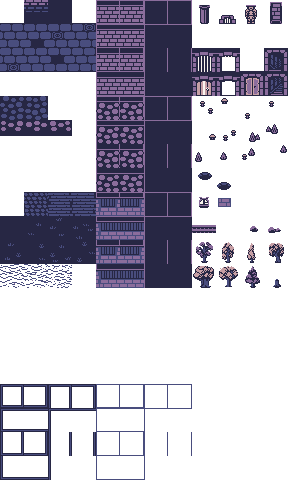
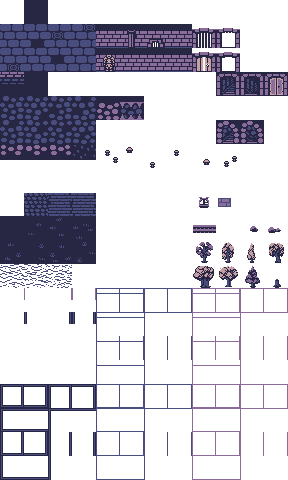
tiles, minor fixes

diff --git a/core/src/main/com/ovle/rll3/view/layer/level/dungeon.kt b/core/src/main/com/ovle/rll3/view/layer/level/dungeon.kt
@@ -5,17 +5,15 @@ import com.ovle.rll3.model.ecs.component.DoorComponent
 import com.ovle.rll3.model.ecs.component.LevelConnectionComponent
 import com.ovle.rll3.model.ecs.component.LevelConnectionComponent.LevelConnectionType
 import com.ovle.rll3.model.ecs.component.Mappers.levelConnection
-import com.ovle.rll3.model.ecs.component.TriggerComponent
 import com.ovle.rll3.model.ecs.component.has
 import com.ovle.rll3.model.ecs.entity.entitiesOnPosition
 import com.ovle.rll3.model.ecs.entity.hasEntityOnPosition
-import com.ovle.rll3.model.procedural.grid.corridorFloorTypes
-import com.ovle.rll3.model.procedural.grid.roomFloorTypes
+import com.ovle.rll3.model.procedural.grid.floorTypes
 import com.ovle.rll3.model.tile.*
 import com.ovle.rll3.point
 import com.ovle.rll3.view.defaultAnimationInterval
-import com.ovle.rll3.view.layer.dungeonWallTileSet
 import com.ovle.rll3.view.layer.indoorFloorBorderTileSet
+import com.ovle.rll3.view.layer.lightWallBorderTileSet
 import com.ovle.rll3.view.noLightning
 import ktx.ashley.get
 
@@ -28,24 +26,24 @@ fun dungeonTileToTexture(params: TileToTextureParams): TileTextureInfo {
 
     val entities = entitiesOnPosition(levelInfo, position)
     fun hasDoor(x: Int, y: Int): Boolean = hasEntityOnPosition(levelInfo, point(x, y), DoorComponent::class)
-    fun hasTrap(x: Int, y: Int): Boolean = hasEntityOnPosition(levelInfo, point(x, y), TriggerComponent::class)
     fun hasLevelConnection(x: Int, y: Int): Boolean = hasEntityOnPosition(levelInfo, point(x, y), LevelConnectionComponent::class)
     fun hasWall(tileId: Int?, x: Int, y: Int) = if (tileId == null || (tileId == wallTileId || hasDoor(x, y))) 1 else 0
     fun hasWallOrPit(tileId: Int?, x: Int, y: Int) = if (tileId == null || (tileId == wallTileId || tileId == pitFloorTileId || hasDoor(x, y))) 1 else 0
-    fun hasRoomWall(tileId: Int?): Int = if (tileId != null && tileId != roomFloorTileId) 1 else 0
+    fun hasPit(tileId: Int?) = if (tileId == pitFloorTileId) 1 else 0
 
     val upTileId = nearTiles.upValue?.typeId
     val downTileId = nearTiles.downValue?.typeId
     val rightTileId = nearTiles.rightValue?.typeId
     val leftTileId = nearTiles.leftValue?.typeId
 
-    val wallTileIndex = nearTiles.run {
+    val wallBorderTileIndex = nearTiles.run {
         hasWall(rightTileId, x + 1, y) + 2 * hasWall(downTileId, x, y + 1) + 4 * hasWall(leftTileId, x - 1, y) + 8 * hasWall(upTileId, x, y - 1)
     }
     val tilesInSet = indoorFloorBorderTileSet.size * indoorFloorBorderTileSet.size - 1
     val floorBorderTileIndex = tilesInSet - nearTiles.run {
         hasWallOrPit(rightTileId, x + 1, y) + 2 * hasWallOrPit(downTileId, x, y + 1) + 4 * hasWallOrPit(leftTileId, x - 1, y) + 8 * hasWallOrPit(upTileId, x, y - 1)
     }
+    val pitFloorBorderTileIndex = 0 + 1 * (hasPit(nearTiles.leftDownValue?.typeId)) + 2 * hasPit(nearTiles.rightDownValue?.typeId)
 
     val tileId = nearTiles.value?.typeId
     val isWall = tileId == wallTileId
@@ -53,20 +51,15 @@ fun dungeonTileToTexture(params: TileToTextureParams): TileTextureInfo {
     val isPitFloor = tileId == pitFloorTileId
     val isCorridorFloor = tileId == corridorFloorTileId
     val isDoor = hasDoor(nearTiles.x, nearTiles.y)
-    val isNextToDoor = hasDoor(nearTiles.x, nearTiles.y - 1)
-    val isRoomWall = upTileId in roomFloorTypes
-    val isCorridorWall = upTileId in corridorFloorTypes
-    val isDoorUp = hasDoor(nearTiles.x, nearTiles.y - 1)
     val isRoomFloorUp = downTileId == roomFloorTileId
     val isPitFloorUp = downTileId == pitFloorTileId
-    val isRoomFloorNearVertical = roomFloorTileId in nearTiles.nearV.map { it?.typeId }
+    val isNextToDoor = hasDoor(nearTiles.x, nearTiles.y - 1)
+    val isNextToFloor = upTileId in floorTypes && !isNextToDoor
 
-    val isTrap = hasTrap(nearTiles.x, nearTiles.y)
-    val isPortal = false
     val isLevelConnection = hasLevelConnection(nearTiles.x, nearTiles.y)
-    val lightValueType = lightValueType(lightInfo, position, positionDown, isPitFloor, isRoomFloorUp, isWall, isDoorUp)
+    val lightValueType = lightValueType(lightInfo, position, positionDown, isPitFloor, isRoomFloorUp, isWall, isNextToDoor)
 
-    val wallTileSet = dungeonWallTileSet
+    val wallBorderTileSet = lightWallBorderTileSet
     val floorBorderTileSet = indoorFloorBorderTileSet
 
     val emptyTile = arrayOf<TextureRegion>()
@@ -82,38 +75,33 @@ fun dungeonTileToTexture(params: TileToTextureParams): TileTextureInfo {
     var animationInterval = defaultAnimationInterval
     val tileRegions = when (layerType) {
         LayerType.Walls -> when {
-            isWall -> arrayOf(indexedTextureTile(wallTileSet, wallTileIndex, regions))
+            isWall || isDoor -> arrayOf(indexedTextureTile(wallBorderTileSet, wallBorderTileIndex, regions))
             isRoomFloor || isCorridorFloor -> arrayOf(indexedTextureTile(floorBorderTileSet, floorBorderTileIndex, regions))
+            isPitFloor -> if (isPitFloorUp) emptyTile else arrayOf(regions[13][pitFloorBorderTileIndex])
             else -> emptyTile
         }
         LayerType.Floor -> when {
-            isPitFloor -> arrayOf(regions[0][if (isPitFloorUp) 2 else 1])
+            isWall && isNextToFloor -> arrayOf(regions[(1..2).random()][(4..7).random()])
+                .withChance(0.6f, defaultValue = arrayOf(regions[1][4]))
+            isDoor -> emptyTile
+            isPitFloor -> arrayOf(regions[3][if (isPitFloorUp) 1 else 0])
             isRoomFloor || isCorridorFloor -> arrayOf(regions[(1..2).random()][(1..3).random()])
             else -> emptyTile
         }
         LayerType.Decoration -> when {
             isLevelConnection -> {
-                val connectionComponent = entities.find { it.has<LevelConnectionComponent>() }!![levelConnection]!!
+                val connectionComponent = entities.single { it.has<LevelConnectionComponent>() }[levelConnection]!!
                 val type = connectionComponent.type
                 when {
-                    !connectionComponent.visited -> arrayOf(regions[3][10])
-                    type == LevelConnectionType.Up -> arrayOf(regions[3][11])
-                    type == LevelConnectionType.Down -> arrayOf(regions[2][11])
+                    !connectionComponent.visited -> arrayOf(regions[3][11])
+                    type == LevelConnectionType.Up -> arrayOf(regions[3][9])
+                    type == LevelConnectionType.Down -> arrayOf(regions[3][10])
                     else -> throw IllegalStateException("bad connection : type = $type")
                 }
             }
             //todo
-            isDoor -> arrayOf(regions[3][8])
-            else -> when {
-                isWall && !isNextToDoor -> when {
-                    isRoomWall -> arrayOf(regions[(0..1).random()][(8..11).random()])
-                        .withChance(0.6f, defaultValue = emptyTile)
-//                    isCorridorWall -> arrayOf(regions[2][(8..11).random()])
-//                        .withChance(0.6f, defaultValue = emptyTile)
-                    else -> emptyTile
-                }
-                else -> emptyTile
-            }
+            isDoor -> arrayOf(regions[2][8])
+            else -> emptyTile
         }
         else -> emptyTile
     }

diff --git a/core/src/main/com/ovle/rll3/view/layer/level/cave.kt b/core/src/main/com/ovle/rll3/view/layer/level/cave.kt
@@ -1,23 +1,22 @@
 package com.ovle.rll3.view.layer.level
 
 import com.badlogic.gdx.graphics.g2d.TextureRegion
-import com.ovle.rll3.model.ecs.component.DoorComponent
 import com.ovle.rll3.model.ecs.component.LevelConnectionComponent
 import com.ovle.rll3.model.ecs.component.LevelConnectionComponent.LevelConnectionType
 import com.ovle.rll3.model.ecs.component.Mappers.levelConnection
-import com.ovle.rll3.model.ecs.component.TriggerComponent
 import com.ovle.rll3.model.ecs.component.has
 import com.ovle.rll3.model.ecs.entity.entitiesOnPosition
 import com.ovle.rll3.model.ecs.entity.hasEntityOnPosition
+import com.ovle.rll3.model.procedural.grid.floorTypes
 import com.ovle.rll3.model.tile.LightValueType
 import com.ovle.rll3.model.tile.pitFloorTileId
 import com.ovle.rll3.model.tile.roomFloorTileId
 import com.ovle.rll3.model.tile.wallTileId
 import com.ovle.rll3.point
 import com.ovle.rll3.view.defaultAnimationInterval
-import com.ovle.rll3.view.layer.caveWallTileSet
 import com.ovle.rll3.view.layer.indoorFloorBorderTileSet
-import com.ovle.rll3.view.layer.outdoorFloorBorderTileSet
+import com.ovle.rll3.view.layer.lightWallBorderTileSet
+import com.ovle.rll3.view.layer.outdoorDarkFloorBorderTileSet
 import com.ovle.rll3.view.noLightning
 import ktx.ashley.get
 
@@ -33,41 +32,37 @@ fun caveTileToTexture(params: TileToTextureParams): TileTextureInfo {
     val positionDown = point(nearTiles.x, nearTiles.y - 1)
 
     val entities = entitiesOnPosition(levelInfo, position)
-    fun hasDoor(x: Int, y: Int): Boolean = hasEntityOnPosition(levelInfo, point(x, y), DoorComponent::class)
-    fun hasTrap(x: Int, y: Int): Boolean = hasEntityOnPosition(levelInfo, point(x, y), TriggerComponent::class)
     fun hasLevelConnection(x: Int, y: Int): Boolean = hasEntityOnPosition(levelInfo, point(x, y), LevelConnectionComponent::class)
-    fun hasWall(tileId: Int?, x: Int, y: Int) = if (tileId == null || (tileId == wallTileId || hasDoor(x, y))) 1 else 0
-    fun hasPit(tileId: Int?, x: Int, y: Int) = if (tileId == pitFloorTileId) 1 else 0
+    fun hasWall(tileId: Int?) = if (tileId == null || (tileId == wallTileId)) 1 else 0
+    fun hasPit(tileId: Int?) = if (tileId == pitFloorTileId) 1 else 0
 
     val upTileId = nearTiles.upValue?.typeId
     val downTileId = nearTiles.downValue?.typeId
     val rightTileId = nearTiles.rightValue?.typeId
     val leftTileId = nearTiles.leftValue?.typeId
 
-    val wallTileIndex = nearTiles.run {
-        hasWall(rightTileId, x + 1, y) + 2 * hasWall(downTileId, x, y + 1) + 4 * hasWall(leftTileId, x - 1, y) + 8 * hasWall(upTileId, x, y - 1)
+    val wallBorderTileIndex = nearTiles.run {
+        hasWall(rightTileId) + 2 * hasWall(downTileId) + 4 * hasWall(leftTileId) + 8 * hasWall(upTileId)
     }
     val tilesInSet = indoorFloorBorderTileSet.size * indoorFloorBorderTileSet.size - 1
     val floorBorderTileIndex = tilesInSet - nearTiles.run {
-        hasPit(rightTileId, x + 1, y) + 2 * hasPit(downTileId, x, y + 1) + 4 * hasPit(leftTileId, x - 1, y) + 8 * hasPit(upTileId, x, y - 1)
+        hasPit(rightTileId) + 2 * hasPit(downTileId) + 4 * hasPit(leftTileId) + 8 * hasPit(upTileId)
     }
+    val pitFloorBorderTileIndex = 0 + 1 * (hasPit(nearTiles.leftDownValue?.typeId)) + 2 * hasPit(nearTiles.rightDownValue?.typeId)
 
     val tileId = nearTiles.value?.typeId
     val isWall = tileId == wallTileId
+    val isNextToFloor = upTileId in floorTypes
     val isRoomFloor = tileId == roomFloorTileId
     val isPitFloor = tileId == pitFloorTileId
-    val isDoor = hasDoor(nearTiles.x, nearTiles.y)
-    val isDoorUp = hasDoor(nearTiles.x, nearTiles.y - 1)
     val isRoomFloorUp = downTileId == roomFloorTileId
     val isPitFloorUp = downTileId == pitFloorTileId
 
-    val isTrap = hasTrap(nearTiles.x, nearTiles.y)
-    val isPortal = false
     val isLevelConnection = hasLevelConnection(nearTiles.x, nearTiles.y)
-    val lightValueType = lightValueType(lightInfo, position, positionDown, isPitFloor, isRoomFloorUp, isWall, isDoorUp)
+    val lightValueType = lightValueType(lightInfo, position, positionDown, isPitFloor, isRoomFloorUp, isWall, false)
 
-    val wallTileSet = caveWallTileSet
-    val floorBorderTileSet = outdoorFloorBorderTileSet
+    val wallBorderTileSet = lightWallBorderTileSet
+    val floorBorderTileSet = outdoorDarkFloorBorderTileSet
 
     val emptyTile = arrayOf<TextureRegion>()
 
@@ -82,13 +77,15 @@ fun caveTileToTexture(params: TileToTextureParams): TileTextureInfo {
     var animationInterval = defaultAnimationInterval
     val tileRegions =  when (layerType) {
         LayerType.Walls -> when {
-            isWall -> arrayOf(indexedTextureTile(wallTileSet, wallTileIndex, regions))
+            isWall -> arrayOf(indexedTextureTile(wallBorderTileSet, wallBorderTileIndex, regions))
             isRoomFloor -> arrayOf(indexedTextureTile(floorBorderTileSet, floorBorderTileIndex, regions))
+            isPitFloor -> if (isPitFloorUp) emptyTile else arrayOf(regions[12][pitFloorBorderTileIndex])
             else -> emptyTile
         }
         LayerType.Floor -> when {
-            isRoomFloor -> arrayOf(regions[4][(0..1).random()])
-            isPitFloor -> if (isPitFloorUp) emptyTile else arrayOf(regions[5][(0..2).random()])
+            isWall && isNextToFloor -> arrayOf(regions[4][(4..4).random()])
+            isRoomFloor -> arrayOf(regions[(4..5).random()][(0..3).random()])
+            isPitFloor -> if (isPitFloorUp) emptyTile else arrayOf(regions[6][(0..2).random()])
             else -> emptyTile
         }
         LayerType.Decoration -> when {
@@ -96,23 +93,12 @@ fun caveTileToTexture(params: TileToTextureParams): TileTextureInfo {
                 val connectionComponent = entities.find { it.has<LevelConnectionComponent>() }!![levelConnection]!!
                 val type = connectionComponent.type
                 when {
-                    !connectionComponent.visited -> arrayOf(regions[3][10])
-                    type == LevelConnectionType.Up -> arrayOf(regions[3][11])
-                    type == LevelConnectionType.Down -> arrayOf(regions[2][11])
+                    type == LevelConnectionType.Up -> arrayOf(regions[5][9])
+                    type == LevelConnectionType.Down -> arrayOf(regions[5][10])
                     else -> throw IllegalStateException("bad connection : type = $type")
                 }
             }
-            //todo
-            isDoor -> arrayOf(regions[3][8])
-            isPitFloor -> {
-                animationInterval = 0.25f
-                arrayOf(
-                    regions[15][0],
-                    regions[15][1],
-                    regions[15][2]
-                )
-            }
-            isRoomFloor -> arrayOf(regions[(4..7).random()][(8..11).random()])
+            isRoomFloor -> arrayOf(regions[6][(4..9).random()])
                 .withChance(0.3f, defaultValue = emptyTile)
             else -> emptyTile
         }

diff --git a/core/src/main/com/ovle/rll3/model/procedural/grid/factory/CelullarAutomataGridFactory.kt b/core/src/main/com/ovle/rll3/model/procedural/grid/factory/CelullarAutomataGridFactory.kt
@@ -18,7 +18,7 @@ class CelullarAutomataGridFactory: GridFactory {
         factoryParams as CelullarAutomataLevelFactoryParams
 
         val size = factoryParams.size
-        val wallGrid = Grid(size)
+        val result = Grid(size)
 
         val generator = CellularAutomataGenerator.getInstance()
         generator.apply {
@@ -29,46 +29,11 @@ class CelullarAutomataGridFactory: GridFactory {
             setInitiate(false) //will do it manually
         }
 
-        CellularAutomataGenerator.initiate(wallGrid, generator)
-        init(wallGrid, size, wallMarker)
-        generator.generate(wallGrid)
-        connect(wallGrid, emptyTileMarker, wallMarker, factoryParams.connectionStrategy)
+        CellularAutomataGenerator.initiate(result, generator)
+        init(result, size, wallMarker)
+        generator.generate(result)
+        connect(result, emptyTileMarker, wallMarker, factoryParams.connectionStrategy)
 
-        val pitGrid = Grid(size)
-        generator.apply {
-            marker = pitMarker
-            deathLimit = 3
-            birthLimit = 6
-        }
-        CellularAutomataGenerator.initiate(pitGrid, generator)
-        generator.generate(pitGrid)
-
-        return merge(arrayOf(wallGrid), size, MergeType.LastNotEmpty)
-//        return merge(arrayOf(wallGrid, pitGrid), size, MergeType.LastNotEmpty)
-    }
-
-    //todo
-    enum class MergeType {
-        FirstNotEmpty {
-            override fun apply(grids: Array<Grid>, x: Int, y: Int): Float? =
-                grids.map { it.get(x, y) }.find { it != emptyTileMarker }
-        },
-        LastNotEmpty {
-            override fun apply(grids: Array<Grid>, x: Int, y: Int): Float? =
-                grids.map { it.get(x, y) }.findLast { it != emptyTileMarker }
-        };
-
-        abstract fun apply(grids: Array<Grid>, x: Int, y: Int): Float?
-    }
-
-    private fun merge(grids: Array<Grid>, size: Int, mergeType: MergeType): Grid {
-        val result = Grid(size)
-        for (x in (0 until size)) {
-            for (y in (0 until size)) {
-                val value = mergeType.apply(grids, x, y) ?: continue
-                result.set(x, y, value)
-            }
-        }
         return result
     }
 

diff --git a/core/src/main/com/ovle/rll3/model/procedural/grid/room.kt b/core/src/main/com/ovle/rll3/model/procedural/grid/room.kt
@@ -7,9 +7,7 @@ import com.ovle.rll3.model.tile.*
 import java.lang.Math.random
 
 val roomFloorTypes = setOf(roomFloorTileId, pitFloorTileId)
-val corridorFloorTypes = setOf(corridorFloorTileId)
 val floorTypes = setOf(roomFloorTileId, pitFloorTileId, corridorFloorTileId)
-
 
 enum class RoomStructure {
     Nop {
@@ -26,6 +24,7 @@ enum class RoomStructure {
             val isFreeSpaceTile = nearTiles.all.all { it?.typeId in roomFloorTypes }
             if (!isFreeSpaceTile) return
 
+            var resultTileId = pitFloorTileId
             val dirValue = params[PitBridgeDirection]
             if (dirValue != NoDirection) {
                 val haveHBridge = dirValue in setOf(H, HV)
@@ -33,10 +32,10 @@ enum class RoomStructure {
                 val isHBridgeTile = nearTiles.y == room.y + room.height / 2
                 val isVBridgeTile = nearTiles.x == room.x + room.width / 2
                 val isBridgeTile = haveHBridge && isHBridgeTile || haveVBridge && isVBridgeTile
-                if (isBridgeTile) return
+                if (isBridgeTile) resultTileId = roomFloorTileId
             }
 
-            setTile(tiles, nearTiles, pitFloorTileId)
+            setTile(tiles, nearTiles, resultTileId)
         }
     },
 

diff --git a/core/src/main/com/ovle/rll3/model/procedural/grid/utils/merge.kt b/core/src/main/com/ovle/rll3/model/procedural/grid/utils/merge.kt
@@ -1,0 +1,29 @@
+package com.ovle.rll3.model.procedural.grid.utils
+
+import com.github.czyzby.noise4j.map.Grid
+import com.ovle.rll3.model.procedural.grid.factory.CelullarAutomataGridFactory
+
+//todo
+enum class MergeType {
+    FirstNotEmpty {
+        override fun apply(grids: Array<Grid>, x: Int, y: Int): Float? =
+            grids.map { it.get(x, y) }.find { it != CelullarAutomataGridFactory.emptyTileMarker }
+    },
+    LastNotEmpty {
+        override fun apply(grids: Array<Grid>, x: Int, y: Int): Float? =
+            grids.map { it.get(x, y) }.findLast { it != CelullarAutomataGridFactory.emptyTileMarker }
+    };
+
+    abstract fun apply(grids: Array<Grid>, x: Int, y: Int): Float?
+}
+
+private fun merge(grids: Array<Grid>, size: Int, mergeType: MergeType): Grid {
+    val result = Grid(size)
+    for (x in (0 until size)) {
+        for (y in (0 until size)) {
+            val value = mergeType.apply(grids, x, y) ?: continue
+            result.set(x, y, value)
+        }
+    }
+    return result
+}

diff --git a/core/src/main/com/ovle/rll3/view/layer/TextureTileSet.kt b/core/src/main/com/ovle/rll3/view/layer/TextureTileSet.kt
@@ -7,8 +7,8 @@ data class TextureTileSet(
     val size: Int = 4
 )
 
-val dungeonWallTileSet = TextureTileSet("dungeonWall", originY = 4)
-//val townWallTileSet = TextureTileSet("caveWall", originX = 8, originY = 4)
-val caveWallTileSet = TextureTileSet("caveWall", originX = 4, originY = 4)
+val darkWallBorderTileSet = TextureTileSet("dungeonWall", originX = 12, originY = 4)
+val lightWallBorderTileSet = TextureTileSet("dungeonWall", originX = 12, originY = 8)
 val indoorFloorBorderTileSet = TextureTileSet("indoorFloorBorder", originX = 16)
-val outdoorFloorBorderTileSet = TextureTileSet("outdoorFloorBorder", originX = 16, originY = 4)
+val outdoorDarkFloorBorderTileSet = TextureTileSet("outdoorFloorBorder", originX = 16, originY = 4)
+val outdoorLightFloorBorderTileSet = TextureTileSet("outdoorFloorBorder", originX = 16, originY = 8)

diff --git a/core/src/main/com/ovle/rll3/model/ecs/system/LevelSystem.kt b/core/src/main/com/ovle/rll3/model/ecs/system/LevelSystem.kt
@@ -154,13 +154,13 @@ class LevelSystem: EventSystem<Event>() {
         if (oldConnection == null) {
             //todo should be far away from any connection?
             val anyConnection = connections.random()
-            return point(anyConnection[position]?.position!!)
+            return point(anyConnection[position]?.position!!).apply { y -= 1 }
         }
 
         val newConnection = connections.find { it[levelConnection]!!.id == oldConnection.backConnectionId }!!
         val newConnectionPosition = newConnection[position]?.position!!
 
-        return point(newConnectionPosition)
+        return point(newConnectionPosition).apply { y -= 1 }
     }
 
     private fun storeEntities(level: LevelInfo) {
